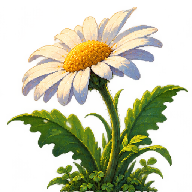
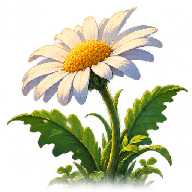
1.3.1: исправлены спрайты после обновления и сдвиг игрового поля
- Атласы с хешем в имени; service worker берёт файлы только из своего
  кеша и загружает их в обход HTTP-кеша; vercel.json без недельного
  кеша для нехешированных ресурсов.
- Убрано двойное центрирование холста (CSS flex + Phaser), пересчёт
  размера при изменении окна и повороте.
- Основания травы, цветов и водных растений плавно уходят в грунт.

Claude-Session: https://claude.ai/code/session_01LiX2t821NHeoVmR2XjR9n9

Changed region(s): [[0.25, 0.875, 0.8438, 1.0], [0.8125, 0.9062, 0.8438, 0.9375]]

diff --git a/src/main.js b/src/main.js
@@ -1589,9 +1589,25 @@ class App {
     stick.onpointerup = stop;
     stick.onpointercancel = stop;
     stick.onlostpointercapture = stop;
-    window.addEventListener("orientationchange", () =>
-      this.resetInput(this.mode === "play"),
-    );
+    // Orientation events may arrive before layout: refresh parent bounds
+    // before fitting, otherwise Phaser can keep the previous display size.
+    const resize = () => {
+      this.resetInput(this.mode === "play");
+      cancelAnimationFrame(this.resizeFrame);
+      this.resizeFrame = requestAnimationFrame(() => {
+        const scale = this.game.scale;
+        scale.getParentBounds();
+        if (scale.parentSize.width > 0 && scale.parentSize.height > 0)
+          scale.refresh();
+      });
+    };
+    window.addEventListener("resize", resize);
+    window.addEventListener("orientationchange", resize);
+    this.game.events.once("destroy", () => {
+      cancelAnimationFrame(this.resizeFrame);
+      window.removeEventListener("resize", resize);
+      window.removeEventListener("orientationchange", resize);
+    });
     $("#touch-e").onpointerdown = (e) => {
       e.preventDefault();
       if (this.mode !== "play") return;

diff --git a/src/style.css b/src/style.css
@@ -45,12 +45,13 @@ button:disabled {
 #game {
   position: absolute;
   inset: 0;
-  display: flex;
-  align-items: center;
-  justify-content: center;
+  /* Phaser Scale.CENTER_BOTH owns canvas positioning. Flex centering
+     would apply the letterbox offset a second time. */
+  display: block;
   background: #142d2b;
 }
 #game canvas {
+  display: block;
   image-rendering: pixelated;
   object-fit: contain;
   max-width: 100%;

diff --git a/src/release.js b/src/release.js
@@ -1,5 +1,5 @@
 import { T } from "./content.js";
-export const VERSION = "1.3.0";
+export const VERSION = "1.3.1";
 export const RELEASE_UI = {
   bootFail: T(
     "Не удалось подготовить мир. Проверьте, что архив распакован целиком. Сохранения не удалены.",

diff --git a/README.md b/README.md
@@ -1,3 +1,7 @@
+# Обновление 1.3.1 — Исправление обновления и экрана
+
+После обновления сайта спрайты больше не путаются со старыми из кеша браузера; игровое поле снова по центру. Подробности — `docs/RELEASE_NOTES.md`.
+
 # Обновление 1.3.0 — Иллюстрированные предметы
 
 Рисованные спрайты вместо простых фигур для девяти объектов и анимированные рыбы в подводном саду; листы очищены от цветной каймы. Подробности — `docs/RELEASE_NOTES.md`.
@@ -12,7 +16,7 @@
 
 # Большой маленький мир · Үлкен кішкентай әлем · The Great Little World
 
-Релиз **1.3.0**. Сюжетное приключение на Phaser 3 с непрерывной картой, девятью главами, подземной Муравьиной цитаделью, высотными тропами и отдельным подводным уровнем. Растения реагируют на касание, природные материалы можно переносить, камешки и крышки имеют движущиеся физические тела. Грунт, свет и растительность постепенно меняются между областями; проходы сопровождаются параллаксом и расширением обзора. Дополнительная переправа оставляет действующий паром, корневую тропу или мост. Герой и 26 обитателей используют согласованные спрайты, кат-сцены — отдельные движущиеся планы. Игра устанавливается как приложение (PWA) и работает без сети.
+Релиз **1.3.1**. Сюжетное приключение на Phaser 3 с непрерывной картой, девятью главами, подземной Муравьиной цитаделью, высотными тропами и отдельным подводным уровнем. Растения реагируют на касание, природные материалы можно переносить, камешки и крышки имеют движущиеся физические тела. Грунт, свет и растительность постепенно меняются между областями; проходы сопровождаются параллаксом и расширением обзора. Дополнительная переправа оставляет действующий паром, корневую тропу или мост. Герой и 26 обитателей используют согласованные спрайты, кат-сцены — отдельные движущиеся планы. Игра устанавливается как приложение (PWA) и работает без сети.
 
 ## Быстрый запуск
 

diff --git a/docs/RELEASE_NOTES.md b/docs/RELEASE_NOTES.md
@@ -1,3 +1,11 @@
+# 1.3.1 — Исправление обновления и экрана
+
+- **Исправлено: после обновления сайта насекомые и предметы превращались в обрывки других картинок** (ботинки, спящий герой, половинки героя). Браузер, где уже открывалась прошлая версия, брал из кеша старые атласы с теми же именами файлов и вырезал кадры по новым координатам. Теперь имена атласов содержат хеш содержимого (`visual-0-4f85127aad.png`), service worker берёт файлы только из своего кеша и при установке загружает их в обход HTTP-кеша, а `vercel.json` больше не разрешает хранить нехешированные ресурсы неделю без проверки.
+- **Исправлено: игровое поле сдвигалось вбок, с широкой тёмной полосой с одной стороны.** Холст центрировался дважды (CSS flex и Phaser). Теперь центрирует только Phaser; при повороте и изменении окна размер пересчитывается.
+- Основания кустов травы, цветов и водных растений больше не обрываются прямой линией: край плавно и неровно растворяется в грунте.
+
+Проверка: сценарий «в браузере открыта 1.4.0 → выкладывается новая версия» (service worker и недельный HTTP-кеш), первая загрузка и перезагрузка — спрайты верные, поле по центру; 42 теста, полный сюжетный прогон, браузерная приёмка Chromium.
+
 # 1.3.0 — Иллюстрированные предметы
 
 - Девять объектов, которые раньше рисовались кодом простыми фигурами, заменены рисованными спрайтами: фонарь, труба, пробирка, увядающий цветок, указатель, лист с яйцами, раковина, грибница и стебель для подъёма на высотные тропы.

diff --git a/docs/START_HERE.md b/docs/START_HERE.md
@@ -1,6 +1,6 @@
 # Большой маленький мир · Үлкен кішкентай әлем · The Great Little World
 
-**Версия 1.3.0 · Иллюстрированные предметы**
+**Версия 1.3.1 · Исправление обновления и экрана**
 
 Сюжетное приключение для школьников: герой уменьшается до размера муравья и проходит девять глав среди насекомых — от Изумрудных джунглей и подземной Муравьиной цитадели до Подводного сада и Ночного сада. Игра полностью переведена на казахский, русский и английский; язык меняется прямо во время игры.
 
